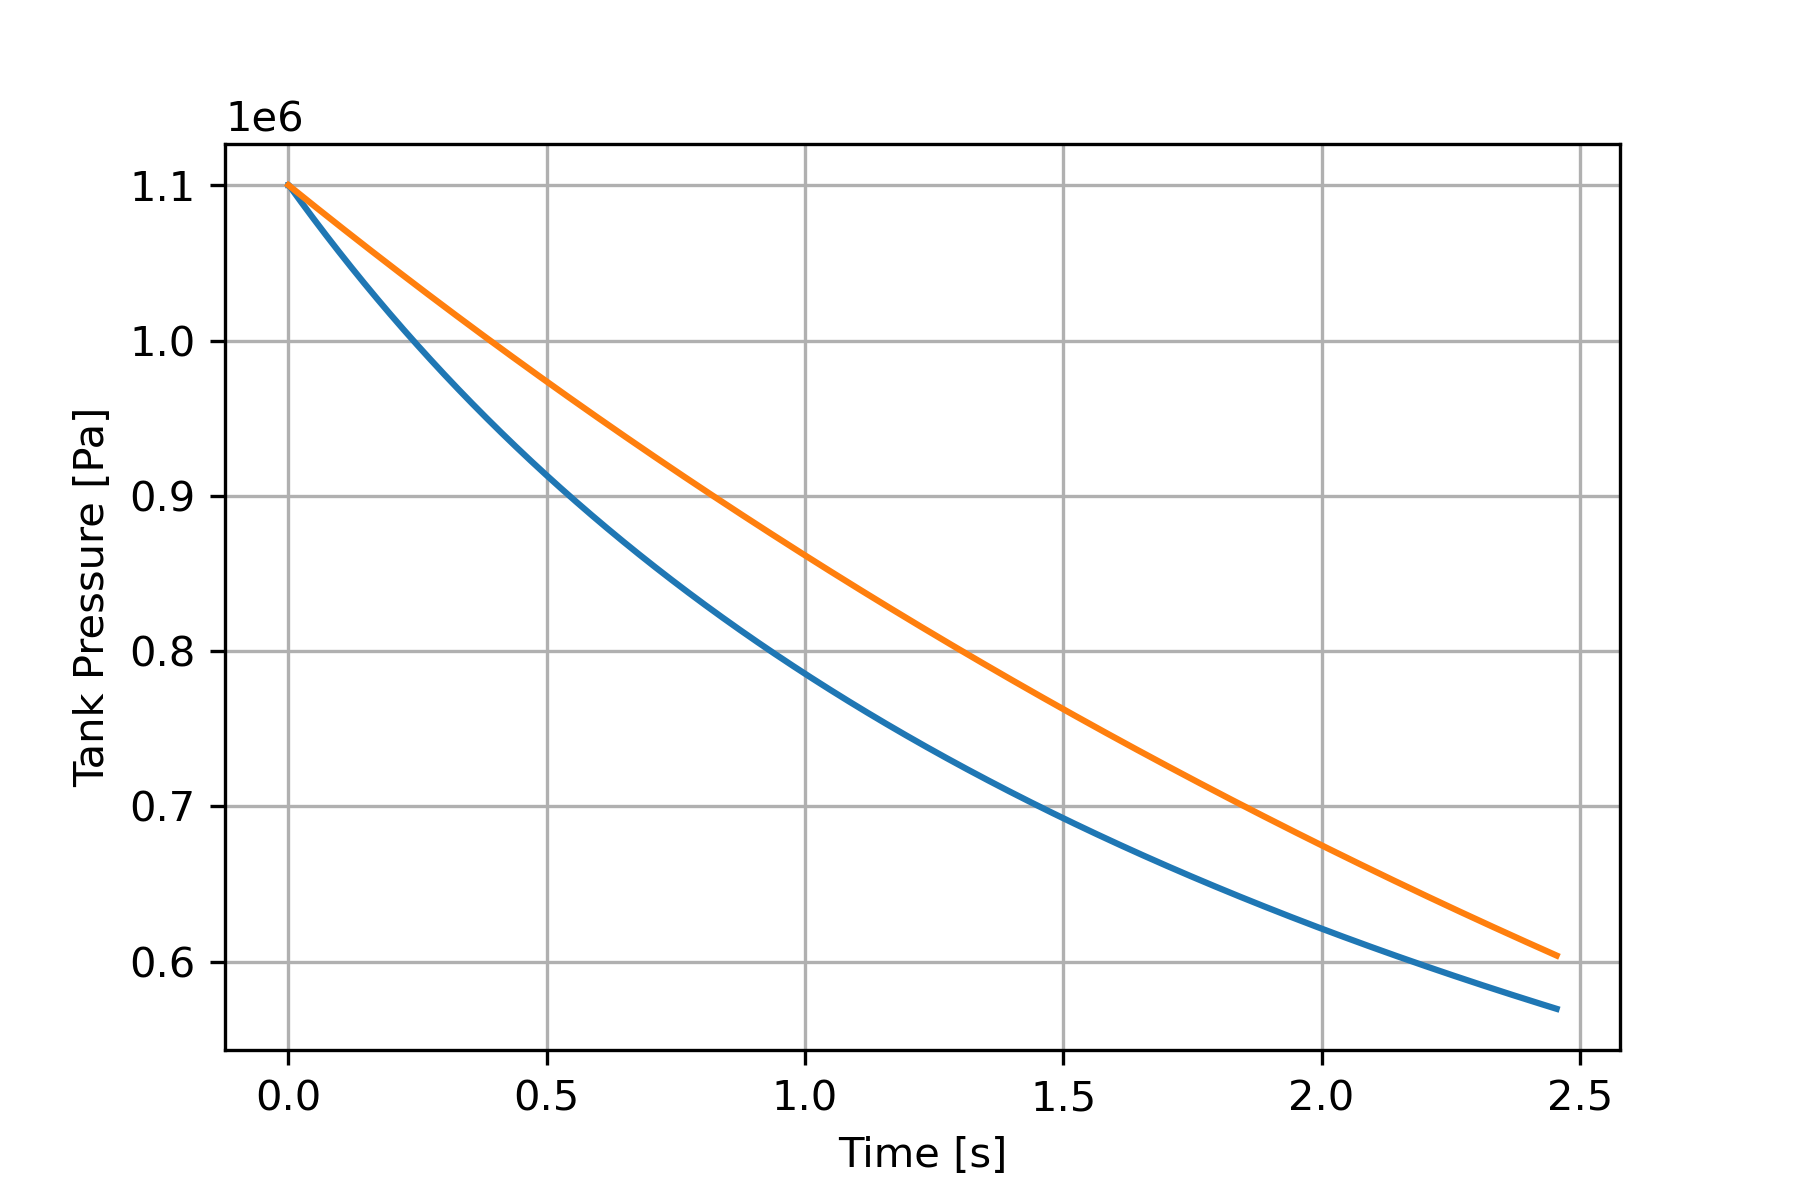
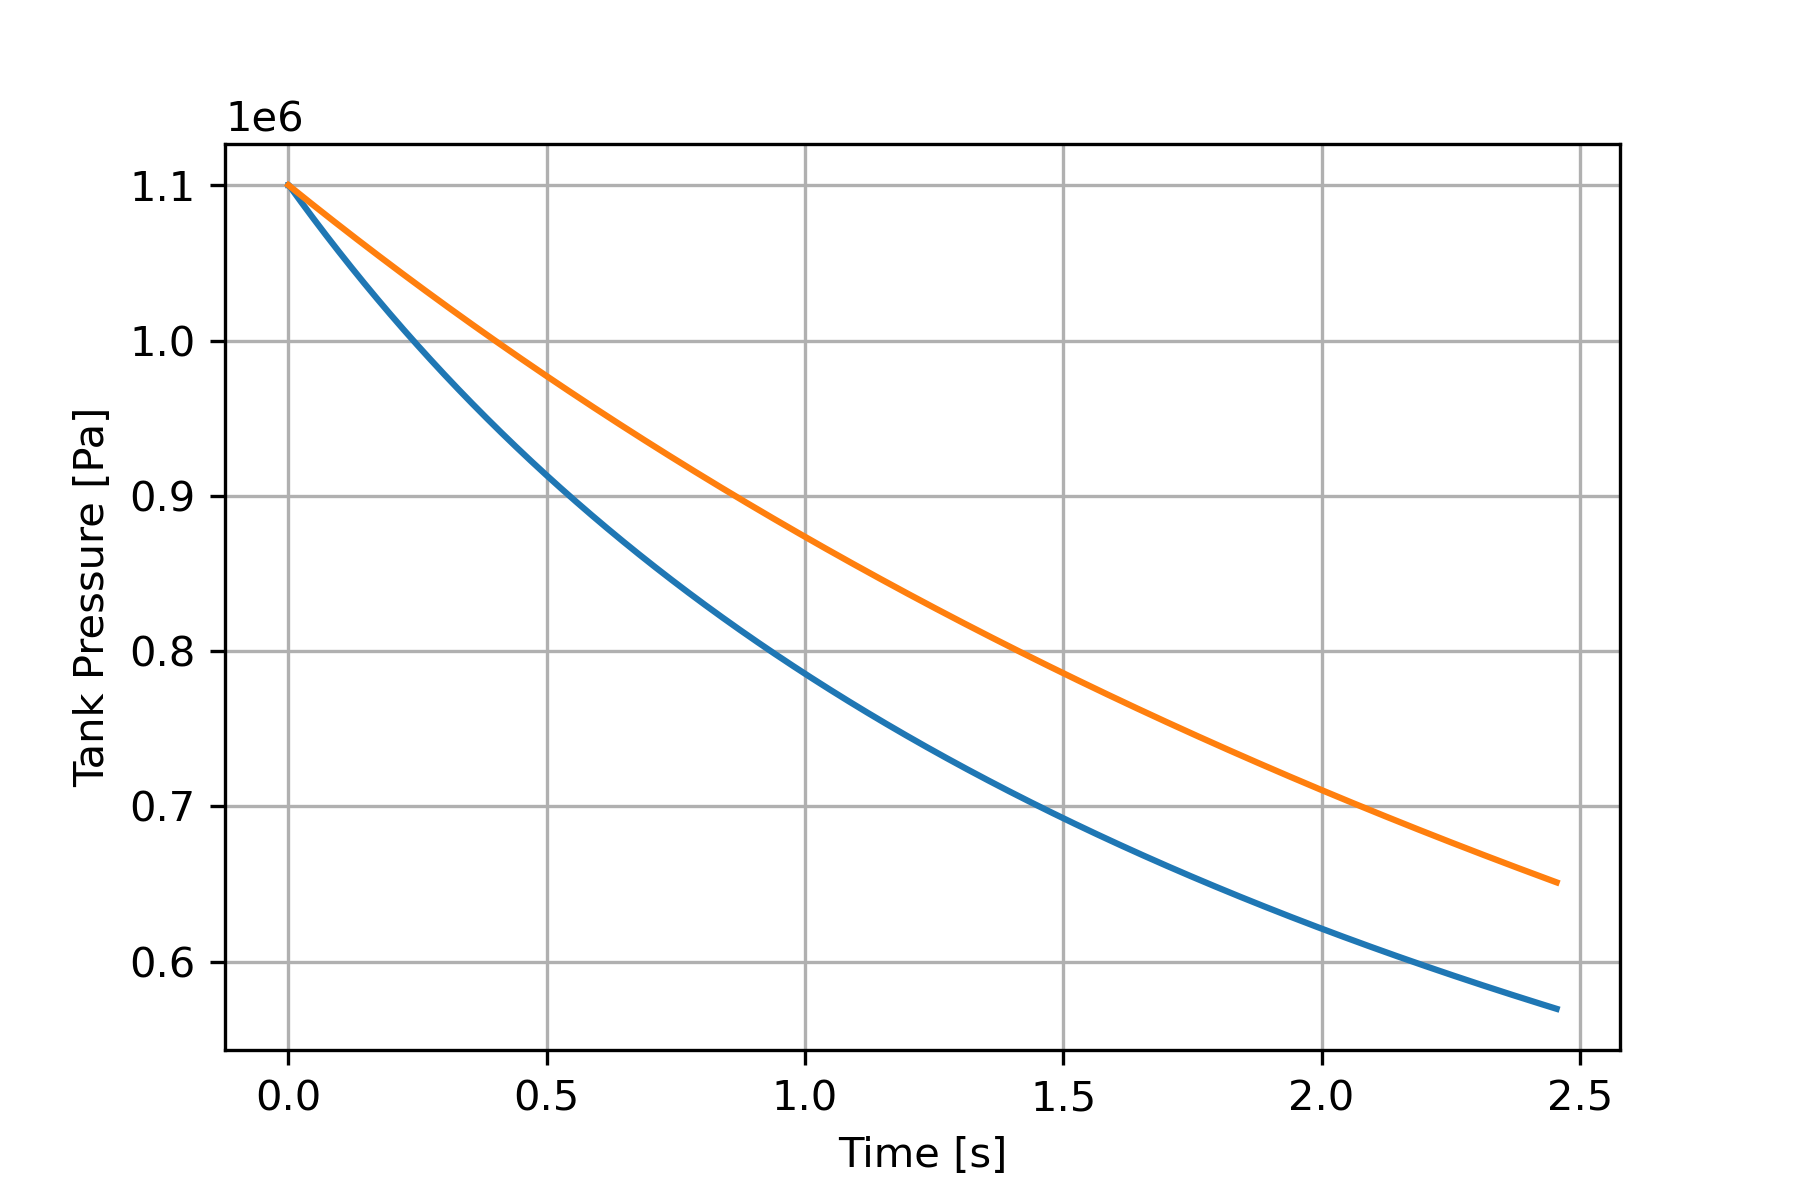
Added velocity calcs
Have to incorporate heat transfer model

diff --git a/Blowout/AirBlowout.py b/Blowout/AirBlowout.py
@@ -32,7 +32,7 @@ class Solver:
         time = [t]
         mdot = [-Aexit*rho[0]*((self.gamma*self.R*T[0])**(1/2))*((2/(self.gamma+1))**((self.gamma+1)/(2*(self.gamma-1))))]
         print("mdot start: ", mdot[0])
-        
+        v = [mdot[0]/(rho[0]*Aexit)]
         
         count = 0
         
@@ -56,8 +56,9 @@ class Solver:
             
             #Temperature
             T1 = P1*T[count]/P[count]
-            T1 = self.T0
+            #T1 = self.T0
             T.append(T1)
+            
             
             #Density
             rho1 = m[count+1]/Vtank
@@ -66,11 +67,14 @@ class Solver:
             t += dt
             time.append(t)
             
+            #Velocity
+            v.append(mdot1/(rho[count]*Aexit))
+                        
             count += 1
 
         
         print("Time: ",t,"mass: ", m[count], "mdot: ", mdot[count], "Pressure: ",P[count])
-        return mdot, P,T, time
+        return mdot, P, T, v, time
     
     def fuelTank(self, dt, Aexit, VR, m0):
         """Numerically solves fuel tank blowout, using tank parameters and timestep dt"""
@@ -91,6 +95,7 @@ class Solver:
         time = [t]
         mdot = [-(rho_f*Aexit*np.sqrt(2*(Pstart-self.P0)/rho_f))]
         Vdot = [mdot[0]*rho_f]
+        v = [mdot[0]/(rho_f*Aexit)]
         print("mdot start: ", mdot[0])
         
         count = 0
@@ -123,10 +128,13 @@ class Solver:
             t += dt
             time.append(t)
             
+            #Velocity
+            v.append(mdot1/(rho_f*Aexit))
+            
             count += 1
             
         print("Time: ",t,"mass: ", m[count], "mdot: ", mdot[count], "Pressure: ",P[count])
-        return mdot, P, T, time
+        return mdot, P, T, v, time
         
     def OFratio(self, mdot_a,mdot_f):
         """Calculates OF ratio from air and fuel tank blowout"""
@@ -159,7 +167,7 @@ dt = 0.001
 
 SolverInstance = Solver(Pt)
 
-mdot_f, P_f, T_f, t = SolverInstance.fuelTank(dt, Ae_f, VR, m_f)
+mdot_f, P_f, T_f, v_f,  t = SolverInstance.fuelTank(dt, Ae_f, VR, m_f)
 
 """Air tank calcs"""
 V_a = 0.00806903       #m^3, volume of air tank
@@ -168,7 +176,7 @@ Cd_a = 0.8
 
 tf = t[-1]
 
-mdot_a, P_a, T_a, t_a = SolverInstance.airTank(dt, V_a, Ae_a, tf, Cd_a)
+mdot_a, P_a, T_a, v_a , t_a = SolverInstance.airTank(dt, V_a, Ae_a, tf, Cd_a)
 
 
 OF = SolverInstance.OFratio(mdot_a,mdot_f)
@@ -223,6 +231,16 @@ plt.xlabel("Time [s]")
 plt.ylabel("OF ratio")
 plt.savefig('OF_vs_time.png', dpi=300)
 
+plt.figure(5)
+plt.clf()
+plt.plot(t, v_f, label='Fuel Tank')
+plt.plot(t_a, v_a, label='Air Tank')
+
+plt.grid(1)
+plt.xlabel("Time [s]")
+plt.ylabel("Velocity [m s-1]")
+plt.savefig('Velocity_vs_time.png', dpi=300)
+plt.legend()
 
 plt.ion()
 
